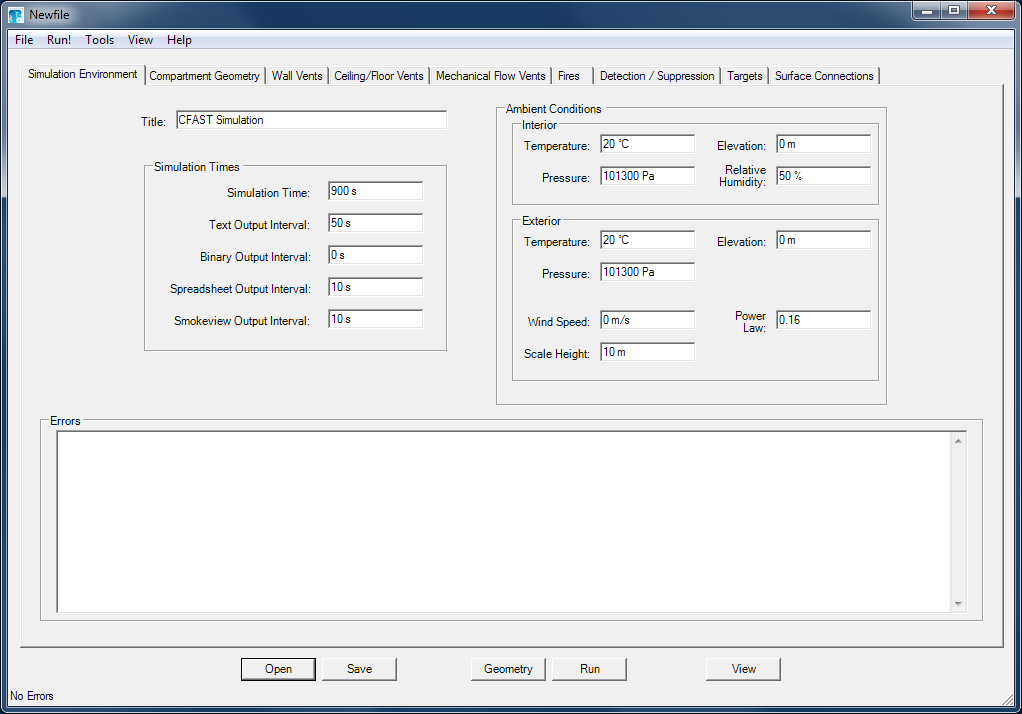
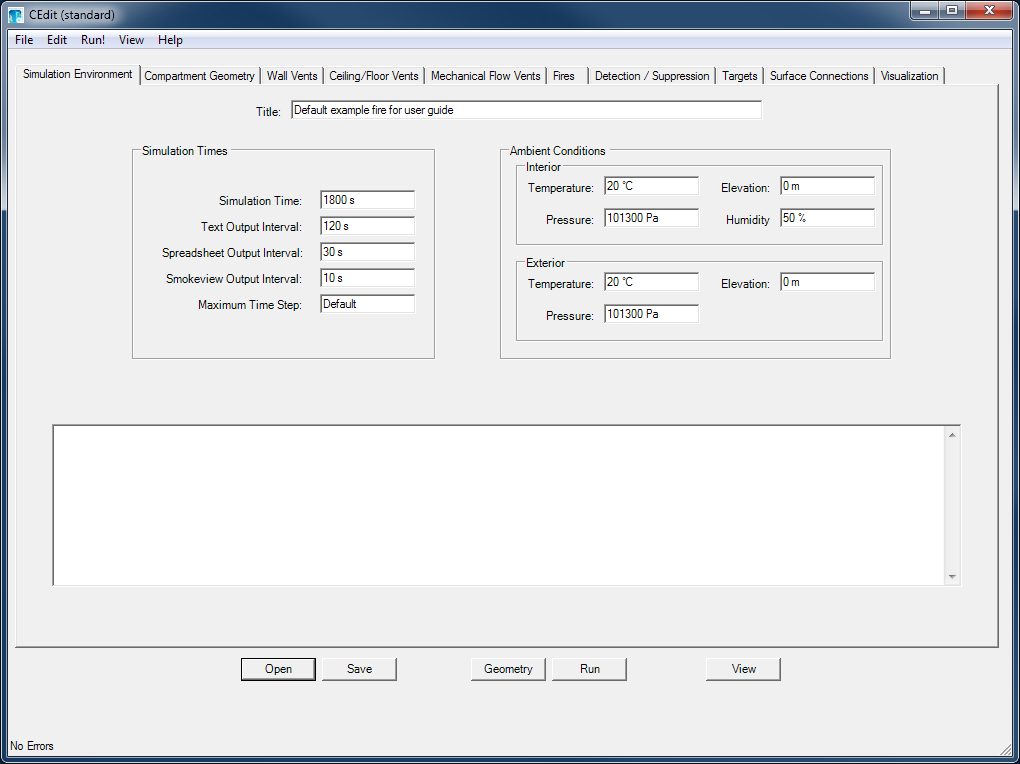
Documentation: Updating User's Guide for version 7

diff --git a/cfast/trunk/Docs/Users_Guide/Input_File_Chapter.tex b/cfast/trunk/Docs/Users_Guide/Input_File_Chapter.tex
@@ -5,48 +5,62 @@
 CFAST is a computer program that uses an input file and generates one or more output files. The first step in performing a calculation is to generate a text input file that provides the program with all of the necessary information to describe the scenario under consideration.  The most important inputs determine the geometry of the compartments in the scenario and the connections between these compartments. Next, the fire, detection, and suppression characteristics of the scenario are defined. Finally, there are a number of parameters that customize the output from the model.  Each line of the file contains a keyword label that identifies the input, followed by a number of numerical or text inputs corresponding to the particular input keyword. A simple input file is shown below. This example is used in the discussion of the output in Chapter 5.
 
 \begin{lstlisting}
-VERSN,6,Cable tray fire -- base case
+VERSN,7,Default example fire for user guide
 !!
 !!Scenario Configuration Keywords
 !!
 TIMES,1800,-120,10,30
 EAMB,293.15,101300,0
 TAMB,293.15,101300,0,50
-CJET,WALLS
-WIND,0,10,0.16
 !!
 !!Material Properties
 !!
 MATL,CONCRETE,1.75,1000,2200,0.15,0.94,"Concrete, Normal Weight (6 in)"
 MATL,GLASSFB3,0.036,795,105,0.013,0.9,"Glass Fiber, Organic Bonded (1/2 in)"
-MATL,METHANE,0.07,1090,930,0.0127,0.04,"Methane, a transparent gas (CH4)"
-MATL,HARDWOOD,0.16,1255,720,0.019,0.9,"Wood, Hardwoods (oak, maple) (3/4 in)"
 !!
 !!Compartment keywords
 !!
-COMPA,Compartment 1,9.1,5,4.6,0,0,0,GLASSFB3,CONCRETE,CONCRETE
+COMPA,Compartment 1,9.1,5,4.6,0,0,0,GLASSFB3,CONCRETE,CONCRETE,50,50,50
 !!
 !!Vent keywords
 !!
-HVENT,1,2,1,1,2.4,0,1,0,0,1,1
+HVENT,1,2,1,1,2.4,0,0,1,1
 !!
 !!Fire keywords
 !!
 GLOBA,10,393.15
-!!Wood_Wall
-FIRE,1,4.55,2.5,0,1,1,0,0,0,1,Wood_Wall
-CHEMI,1,4,0,0,0,0.33,1.81E+07,HARDWOOD
+!!burner
+FIRE,1,4.55,2.5,0,1,1,0,0,0,1,burner
+CHEMI,1,4,0,0,0,0.33,5E+07,METHANE
+TIME,0,60,120,180,240,300,360,420,480,540,1800
+HRR,0,100000,150000,200000,150000,125000,100000,90000,80000,75000,75000
+SOOT,0,0,0,0,0,0,0,0,0,0,0
+CO,0.001,0.001,0.001,0.001,0.001,0.001,0.001,0.001,0.001,0.001,0.001
+TRACE,0,0,0,0,0,0,0,0,0,0,0
+AREA,0.2,0.2,0.2,0.2,0.2,0.2,0.2,0.2,0.2,0.2,0.2
+HEIGH,0,0,0,0,0,0,0,0,0,0,0
+MATL,METHANE,0.07,1090,930,0.0127,0.04,"Methane, a transparent gas (CH4)"
+!!wood_wall
+FIRE,1,9.1,2.5,0,1,1,0,0,0,1,wood_wall
+CHEMI,6,10,5,0,0,0.33,1.81E+07,HARDWOOD
 TIME,0,8000
 HRR,0,1000000
-SOOT,0.02,0.02
-CO,0.02,0.02
+SOOT,0.015,0.015
+CO,0.006171682,0.006171682
 TRACE,0,0
 AREA,0.05,9
 HEIGH,0,3
+MATL,HARDWOOD,0.16,1255,720,0.019,0.9,"Wood, Hardwoods (oak, maple) (3/4 in)"
 !!
 !!Target and detector keywords
 !!
 TARGET,1,2.2,1.88,2.34,0,0,1,CONCRETE,IMPLICIT,PDE,0.5
+!!
+!!visualizations
+!!
+SLCF,2-D,Y,2.5,1
+SLCF,2-D,Z,4.554,1
+
 \end{lstlisting}
 
 All of the inputs to the model are discussed in this chapter.  Following the discussion that details each input, their engineering units and default values, notes are included that provided additional guidance or frequently addressed problems that may be encountered by the user. These notes take the form of a bulleted list such as:
@@ -72,12 +86,13 @@ The installation program creates a shortcut to the input editor on the Windows s
 These tabbed-pages organize the inputs for CFAST simulations into several categories as follows.
 \begin{itemize}
 \item \textbf{Simulation Environment} includes simulation time, specification of model outputs, and ambient conditions. Also included on the page are a constantly updated list of errors, warnings, and messages about the input file specification or model simulation.
-\item \textbf{Compartment Geometry} defines the size, construction characteristics, and position of the compartments in a simulation.
+\item \textbf{Compartments} defines the size, construction characteristics, and position of the compartments in a simulation.
 \item \textbf{Wall Vents, Ceiling/Floor Vents, and Mechanical Flow Vents} allows the user to connect compartments with doors and windows, ceiling and floor vents, or forced air ventilation systems.
 \item \textbf{Fires} include user specification of the initial fire source and any additional burning objects in one or more of the compartments of the simulation.
 \item \textbf{Detection / Suppression}defines any heat alarms and sprinklers in the compartments of the simulation.
 \item \textbf{Targets} provide the ability calculate the temperature and net heat flux to objects placed and oriented arbitrarily in the structure.
 \item \textbf{Surface Connections} allows for more detailed description of the connections between compartments in the simulation to better simulate the transfer of heat from compartment to compartment in the simulation.
+\item \textbf{Visualizations} allows specification of one or more 2-D and 3-D visualizations to be added to the simulation for viewing with Smokeview. Note that these can require significant additional computational time than a basic CFAST simulation without visualizations.
 \end{itemize}
 
 Each of these tabbed-pages is described in more detail below. In addition, a series of menus allow the user to open and save files; run the simulation, or access help and program information.
